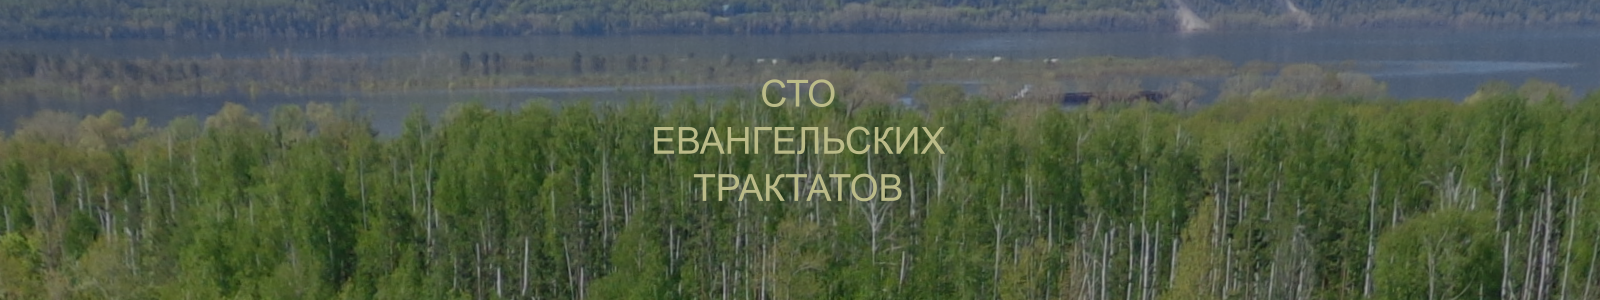
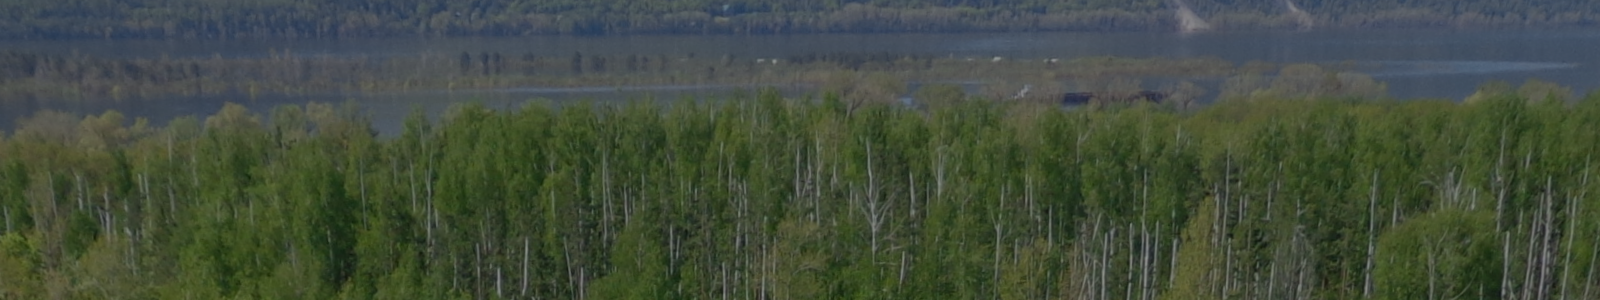
adding buttons svg

Changed region(s): [[0.4062, 0.42, 0.5938, 0.51], [0.4375, 0.57, 0.5625, 0.69], [0.4688, 0.24, 0.5312, 0.36]]

diff --git a/index.html b/index.html
@@ -10,7 +10,7 @@
     <link rel="preconnect" href="https://fonts.gstatic.com" crossorigin>
     <link href="https://fonts.googleapis.com/css2?family=Roboto:ital,wght@0,400;0,700;1,400;1,700&display=swap" rel="stylesheet">
     <link rel="stylesheet" href="style.css">
-    <title>100 Евангельских Трактатов</title>
+    <title>Сто Евангельских Трактатов</title>
 </head>
 <body class="grid">
     <div class="banner grid-full">
@@ -19,49 +19,47 @@
     <h1 class="title grid-content">СТО ЕВАНГЕЛЬСКИХ ТРАКТАТОВ</h1>
     <section class="about grid-content">
         <h2 class="about__title">О проекте</h2>
+        <nav class="tract__nav">
+            <!-- It's good for SEO to add h-title. But sometimes you should hide it. -->
+            <h3 class="tract-nav__title hide-title">Навигация секции "О проекте".</h3>
+            <ul class="tract-nav__list">
+                <li class="tract-nav__item item-text"><button class="btn btn-text"></button></li>
+                <li class="tract-nav__item item-audio"><button class="btn btn-audio"></button></li>
+            </ul>
+        </nav>    
         <p class="about__text">Lorem ipsum dolor sit amet, consectetur adipisicing elit. Fuga, alias facilis, ipsam aspernatur inventore consectetur quod commodi laboriosam quaerat ab quam ex. Iure ea distinctio saepe voluptas temporibus pariatur nemo cupiditate incidunt modi optio! Sed voluptate doloribus et qui iusto in repudiandae. Aliquam neque provident minima, soluta illo cupiditate reiciendis.</p>
     </section>
     <article class="tract grid-content">
         <p class="tract__number">#001</p>
         <p class="tract__bible">Евангелие от Иоанна 3</p>
         <h2 class="tract__title">Взгляни на медного змея</h2>
+        <nav class="tract__nav">
+            <!-- It's good for SEO to add h-title. But sometimes you should hide it. -->
+            <h3 class="tract-nav__title hide-title">Навигация трактата.</h3>
+            <ul class="tract-nav__list">
+                <li class="tract-nav__item item-text"><button class="btn btn-text"></button></li>
+                <li class="tract-nav__item item-audio"><button class="btn btn-audio"></button></li>
+            </ul>
+        </nav>   
         <p class="tract__text">Lorem ipsum dolor sit amet consectetur adipisicing elit. Accusantium error eveniet deserunt sint quo. Quas at porro, modi dolore, tempore excepturi dignissimos tempora maxime ea vero aliquam nihil! Autem magni ex, cupiditate pariatur obcaecati totam odit voluptate laboriosam iste facilis ipsa sed, dicta mollitia recusandae aspernatur molestias officiis, laudantium eos minus numquam atque voluptas dolore placeat dolores? Perspiciatis optio neque illum, possimus a pariatur recusandae maiores quod, alias eius asperiores impedit fugiat vel error minima non dicta commodi provident itaque.</p>
         <p class="tract__author">Евгений Кошелев</p>
         <p class="tract__city">Самара</p>
         <time class="tract__date">14 января 2024</time>
     </article>
-    <article class="tract grid-content">
-        <p class="tract__number">#002</p>
-        <p class="tract__bible">Евангелие от Иоанна 3</p>
-        <h2 class="tract__title">Взгляни на медного змея</h2>
-        <p class="tract__text">Lorem ipsum dolor sit amet consectetur adipisicing elit. Accusantium error eveniet deserunt sint quo. Quas at porro, modi dolore, tempore excepturi dignissimos tempora maxime ea vero aliquam nihil! Autem magni ex, cupiditate pariatur obcaecati totam odit voluptate laboriosam iste facilis ipsa sed, dicta mollitia recusandae aspernatur molestias officiis, laudantium eos minus numquam atque voluptas dolore placeat dolores? Perspiciatis optio neque illum, possimus a pariatur recusandae maiores quod, alias eius asperiores impedit fugiat vel error minima non dicta commodi provident itaque.</p>
-        <p class="tract__author">Дмитрий Чубукин</p>
-        <p class="tract__city">Екатеринбург</p>
-        <time class="tract__date">20 января 2024</time>
-    </article>
-    <article class="tract grid-content">
-        <p class="tract__number">#003</p>
-        <p class="tract__bible">Евангелие от Иоанна 3</p>
-        <h2 class="tract__title">Взгляни на медного змея</h2>
-        <p class="tract__text">Lorem ipsum dolor sit amet consectetur adipisicing elit. Accusantium error eveniet deserunt sint quo. Quas at porro, modi dolore, tempore excepturi dignissimos tempora maxime ea vero aliquam nihil! Autem magni ex, cupiditate pariatur obcaecati totam odit voluptate laboriosam iste facilis ipsa sed, dicta mollitia recusandae aspernatur molestias officiis, laudantium eos minus numquam atque voluptas dolore placeat dolores? Perspiciatis optio neque illum, possimus a pariatur recusandae maiores quod, alias eius asperiores impedit fugiat vel error minima non dicta commodi provident itaque.</p>
-        <p class="tract__author">Владимир Дубинский</p>
-        <p class="tract__city">Берлин</p>
-        <time class="tract__date">14 февряля 2024</time>
-    </article>
+
     <footer class="footer grid-full grid">
         <nav class="footer__nav grid-content">
-            <h3 class="footer__title">Полезные ссылки</h3>
-            <ul class="nav__list">
-                <li class="nav__item"><a href="" class="nav__link"></a></li>
-                <li class="nav__item"><a href="" class="nav__link"></a></li>
-                <li class="nav__item"><a href="" class="nav__link"></a></li>
-                <li class="nav__item"><a href="" class="nav__link"></a></li>
-                <li class="nav__item"><a href="" class="nav__link"></a></li>
+            <h3 class="footer-nav__title">Полезные ссылки</h3>
+            <ul class="footer-nav__list">
+                <li class="footer-nav__item"><a href="" class="footer-nav__link link">Link 1</a></li>
+                <li class="footer-nav__item"><a href="" class="footer-nav__link link">Link 2</a></li>
+                <li class="footer-nav__item"><a href="" class="footer-nav__link link">Link 3</a></li>
+                <li class="footer-nav__item"><a href="" class="footer-nav__link link">Link 4</a></li>
+                <li class="footer-nav__item"><a href="" class="footer-nav__link link">Link 5</a></li>
             </ul>
         </nav>
         <p class="footer__copy grid-content">&#169; <date>2023</date> Eugene Koshelev</p>
     </footer>
-
     <header class="player grid-full grid">
         <h2 class="player__title grid-content">Название трека Lorem ipsum dolor sit amet, consectetur adipisicing elit. Rem, modi. Exercitationem officia magni commodi distinctio cumque sed delectus, corporis cupiditate.</h2>
         <audio src="" class="player__audio grid-content" controls></audio>

diff --git a/style.css b/style.css
@@ -102,14 +102,23 @@ meter {
     all: revert;
 }
 
+/* -------------------ROOT----------------- */
+:root {
+    --body-bg-color: #222;
+    --footer-bg-color: #111;
+    --text-color: #bba;
+    --title-color: #bb8;
+    --title-fz: 32px;
+    --button-size: 60px;
+}
+
 /* --------------------BODY----------------- */
 body {
-    background-color: #222;
-    /* font-family: 'Bitter', serif; */
+    background-color: var(--body-bg-color);
     font-family: 'Roboto', sans-serif;
     font-size: 24px;
     line-height: 200%;
-    color:#bba;
+    color:var(--text-color);
 }
 
 /* --------------------GRID----------------- */
@@ -118,7 +127,7 @@ body {
     grid-template-columns: [full-start] 10px 1fr [content-start] minmax(300px, 900px) [content-end]  1fr 10px [full-end];
 }
 .grid > * {
-    margin-top: 20px;
+    margin-top: 40px;
 }
 .grid-content {
     grid-column: content;
@@ -129,25 +138,22 @@ body {
 
 /* -----------------BANNER------------------ */
 .banner {
-    margin: 0;          /* compensate row-gap: 20px in .content-grid */
+    margin: 0;
     height: 300px;
     background-color: #ccc;
-    background-image: url('./img/banner-5.png');
+    background-image: url('./img/banner.png');
     background-repeat: no-repeat;
     background-position: center;
     background-size: cover;
+    z-index: 70;
 }
-/* .banner img {
-    display: block;
-    max-width: 100%;
-} */
 
 /* ----------------TITLE-------------------- */
 .title {
     text-align: center;
     font-size: 40px;
     font-weight: 700;
-    color: #bb8;
+    color: var(--title-color);
     letter-spacing: 4px;
 }
 @media (max-width: 600px) {
@@ -168,51 +174,136 @@ body {
     text-align: center;
     font-weight: 700;
     font-style: italic;
-    color: #bb8;
+    color: var(--title-color);
     letter-spacing: 4px;
+    font-size: var(--title-fz);
+    line-height: 200%;
 }
 .about__text {
+} 
+
+/* ------------TRACT-AND-ABOUT-NAV---------- */
+.tract__nav {
+}
+.tract-nav__title {
+}
+.tract-nav__list {
+    display: grid;
+    grid-template-columns: 1fr [text-start] var(--button-size) [text-end audio-start] var(--button-size) [audio-end] 1fr;
+    column-gap: 10px;
+}
+.tract-nav__item {
+}
+.item-text {
+    grid-column: text;
+}
+.item-audio {
+    grid-column: audio;
+}
+
+/* --------------BUTTONS------------- */
+.btn {
+    cursor: pointer;;
+    opacity: .8;
+    transition: opacity .3s;
+    height: var(--button-size);
+    width: var(--button-size);
+    background-repeat: no-repeat;
+    background-size: cover;
+    overflow: hidden;
+}
+.btn:hover {
+    opacity: 1;
+}
+.btn-text {
+    background-image: url(./img/sheet-100.svg);
+}
+.btn-audio {
+    background-image: url(./img/play-100.svg);
+}
+.link {
+    cursor: pointer;;
+    opacity: .8;
+    transition: opacity .3s;
+}
+.link:hover {
+    opacity: 1;
+}
+.hide-title {
+    height: 0;
+    width: 0;
+    overflow: hidden;
+    z-index: -1000;
 }
 
 /* ------------------TRACT-------------------- */
 .tract {
+    display: grid;
+    grid-template-columns: 1fr 1fr;
+}
+.tract > * {
+    grid-column: span 2;
 }
 .tract__number {
+    grid-column: span 1;
 }
 .tract__bible {
+    grid-column: span 1;
+    text-align: right;
 }
 .tract__title {
     text-align: center;
     font-weight: 700;
     font-style: italic;
-    color: #bb8;
+    color: var(--title-color);
     letter-spacing: 4px;
+    font-size: var(--title-fz);
+    line-height: 200%;
 }
 .tract__text {
 }
 .tract__author {
+    text-align: center;
 }
 .tract__city {
+    text-align: center;
 }
 .tract__date {
+    text-align: center;
 }
 
 /* ------------------FOOTER------------------- */
 .footer {
-    background-color: #111;
+    background-color: var(--footer-bg-color);
     padding-bottom: 200px;
+    text-align: center;
+}
+.footer__nav {
+}
+.footer-nav__title {
+    color: var(--title-color);
+}
+.footer-nav__list {
+    display: grid;
+}
+.footer-nav__item {
+}
+.footer-nav__link {
+}
+.footer__copy {
 }
 
 /* -----------------PLAYER------------------ */
 .player {
     margin: 0;
-    position: sticky;
+    position: fixed;
     bottom: 0;
     left: 0;
     height: 110px;
     width: 100%;
     overflow: hidden;
     background-color: #111;
+    z-index: 60;
 }
 .player__title {
     margin: 0;
